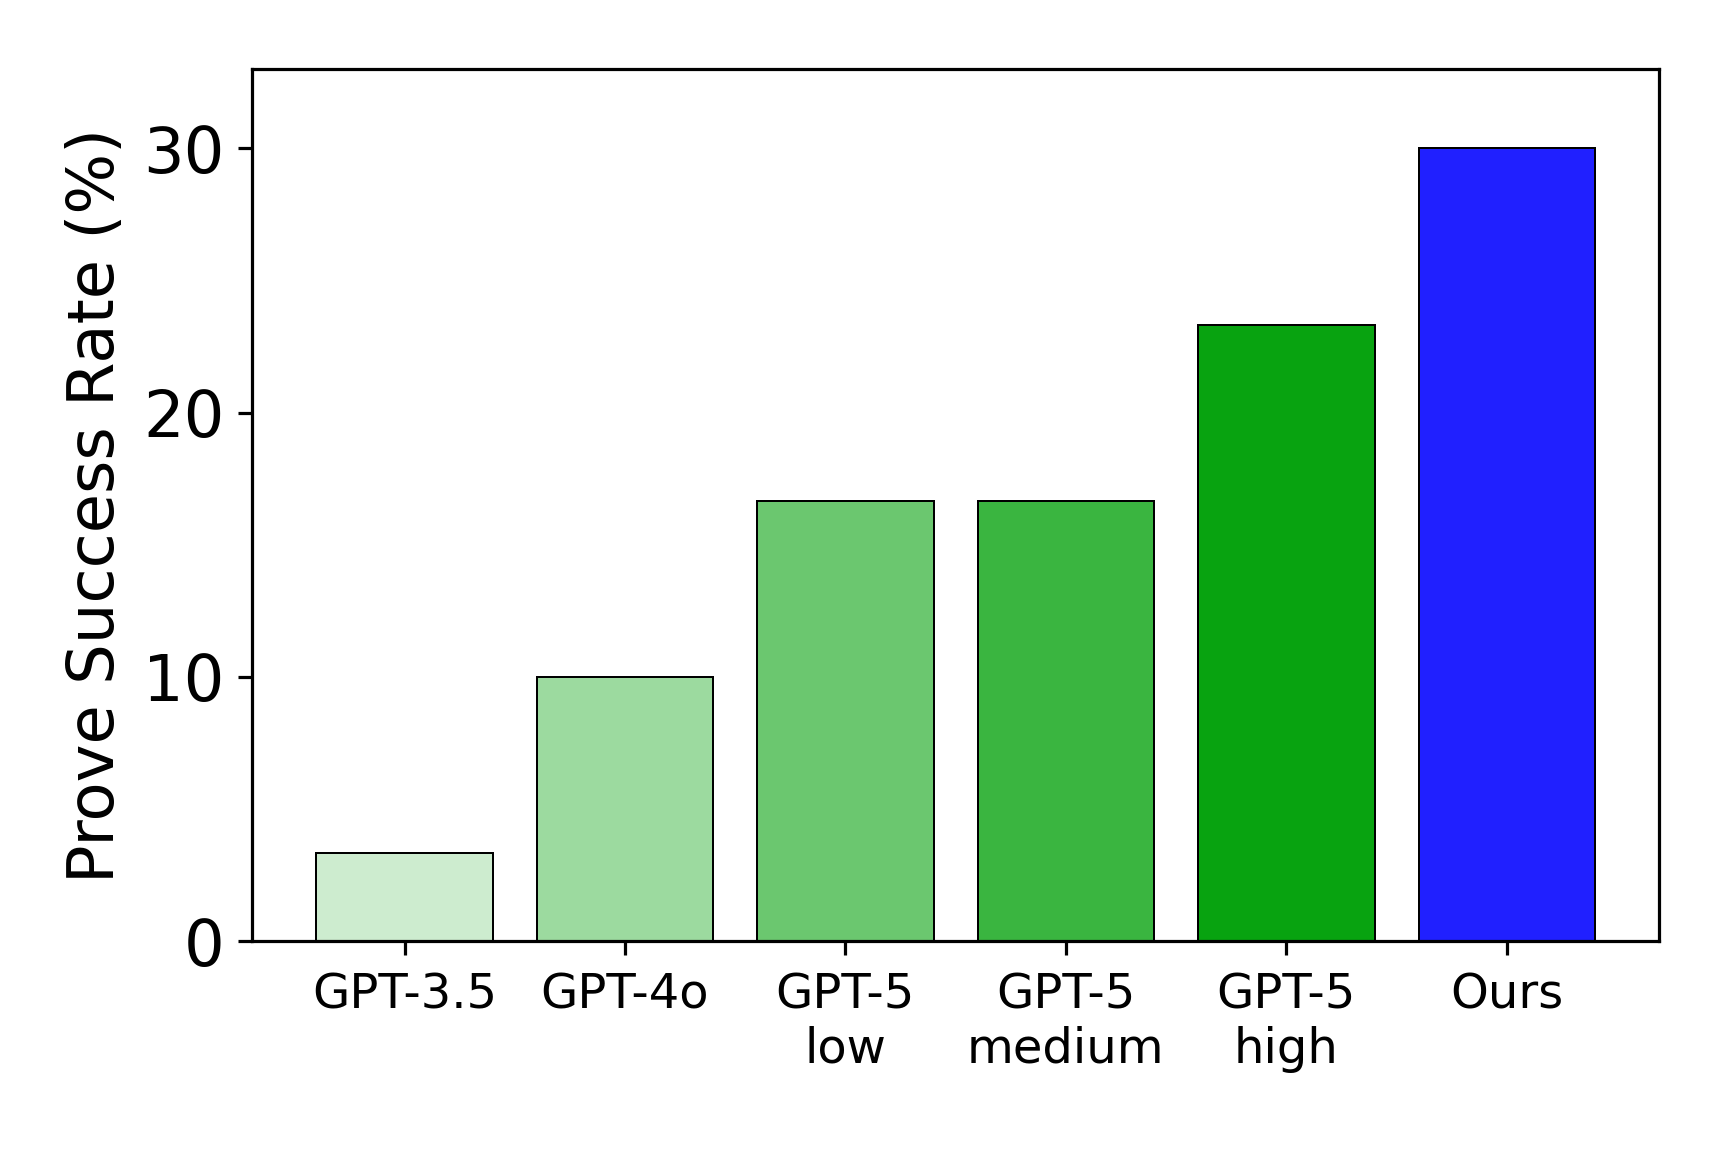
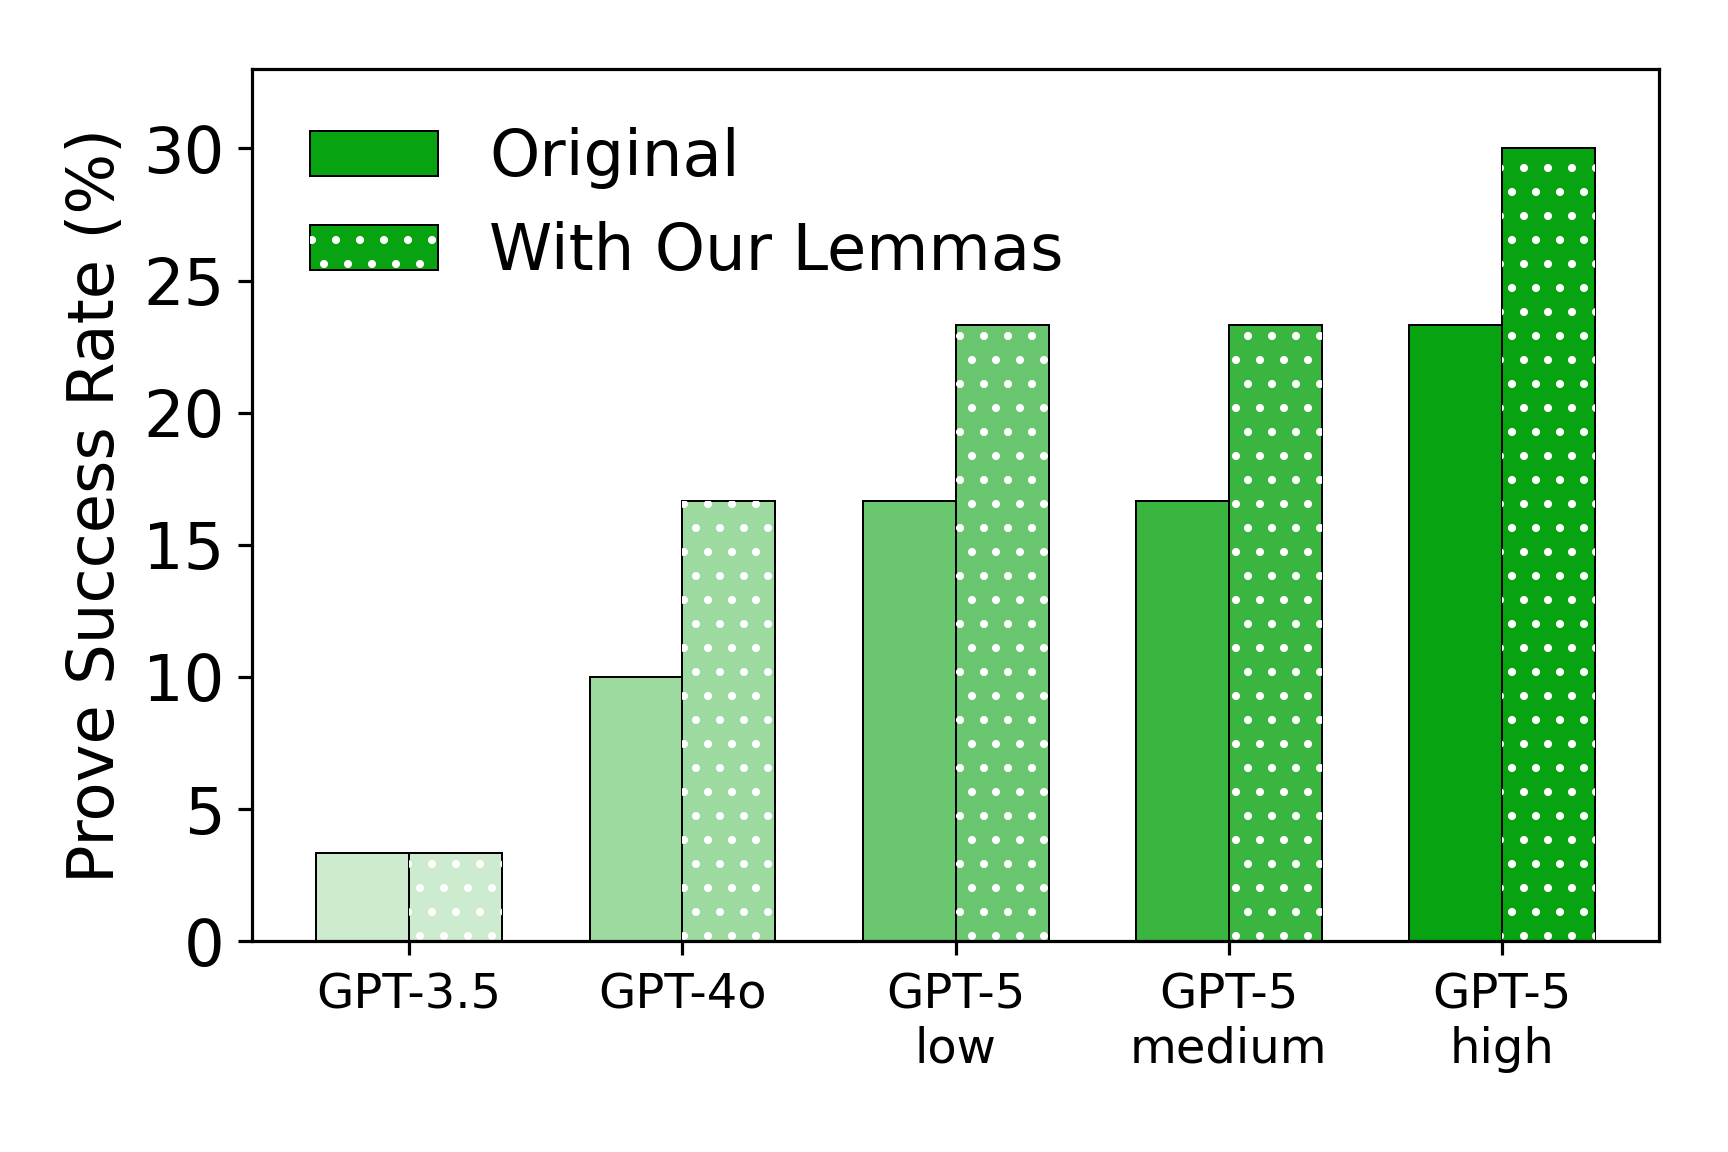
Update ICML page thumbnail and mobile portrait

diff --git a/icml2026/index.html b/icml2026/index.html
@@ -107,7 +107,7 @@
             <figure class="paper-visual">
               <img
                 src="./assets/theorem-discovery-success-rate-gpt.png"
-                alt="Proof success rate comparison between language models and our method"
+                alt="Proof success rate comparison with and without our lemmas"
               />
             </figure>
             <div class="paper-body">

diff --git a/icml2026/icml2026.css b/icml2026/icml2026.css
@@ -157,7 +157,7 @@
   .conference-portrait-link {
     grid-row: auto;
     order: 2;
-    justify-content: flex-start;
+    justify-content: center;
   }
 
   .conference-description {
